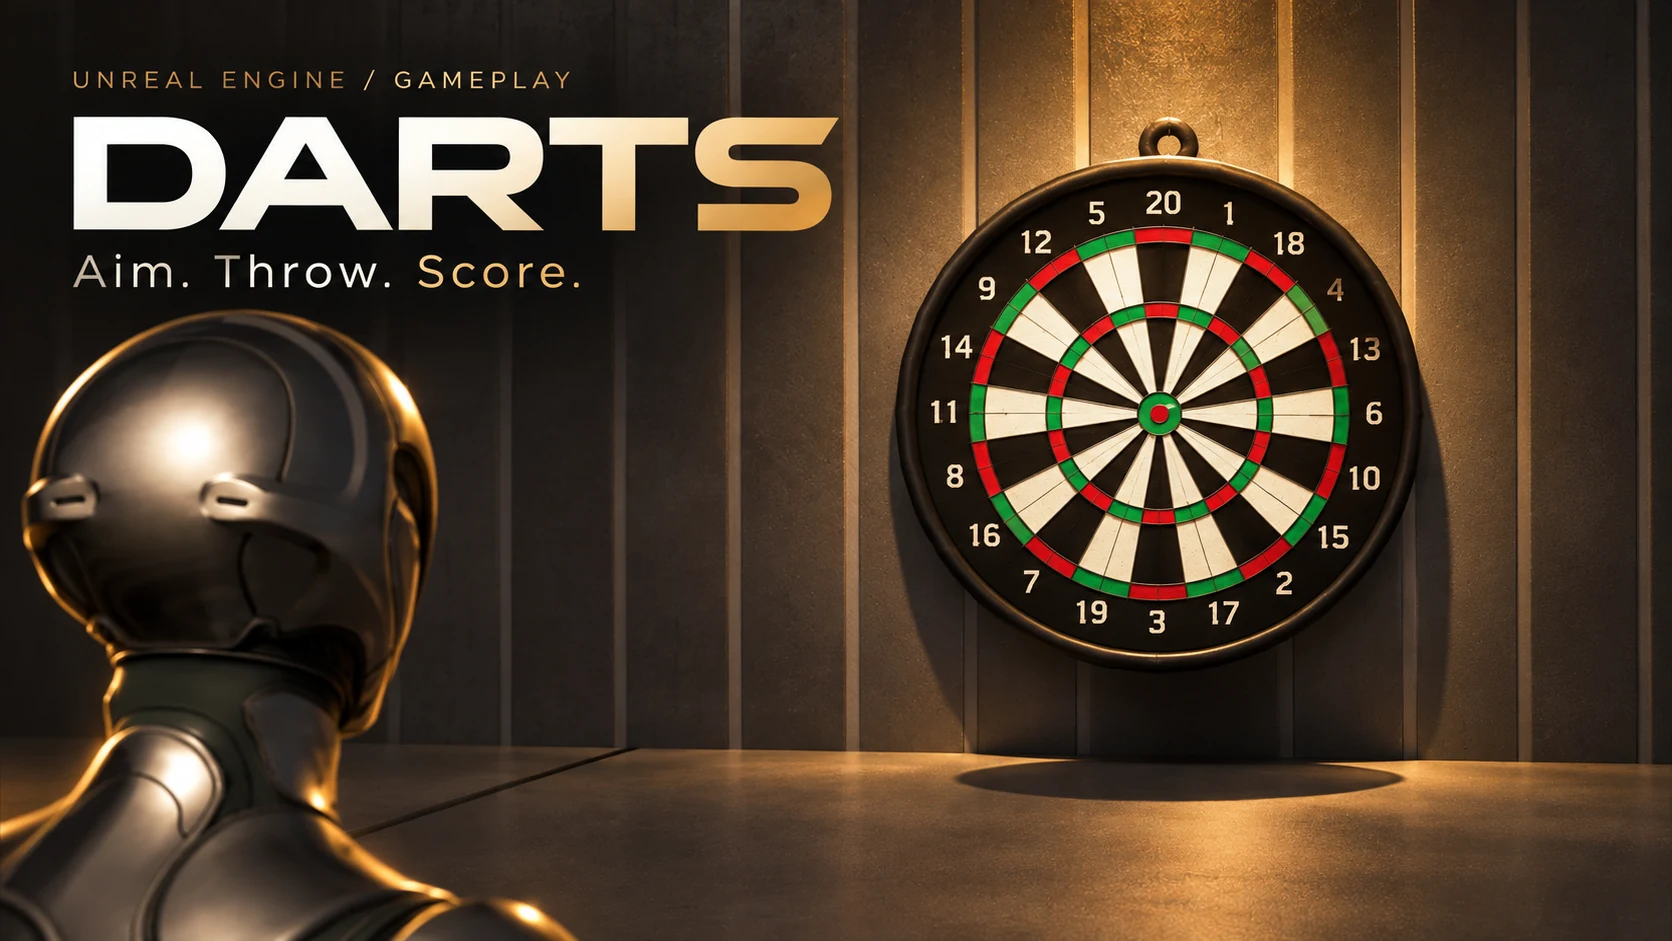
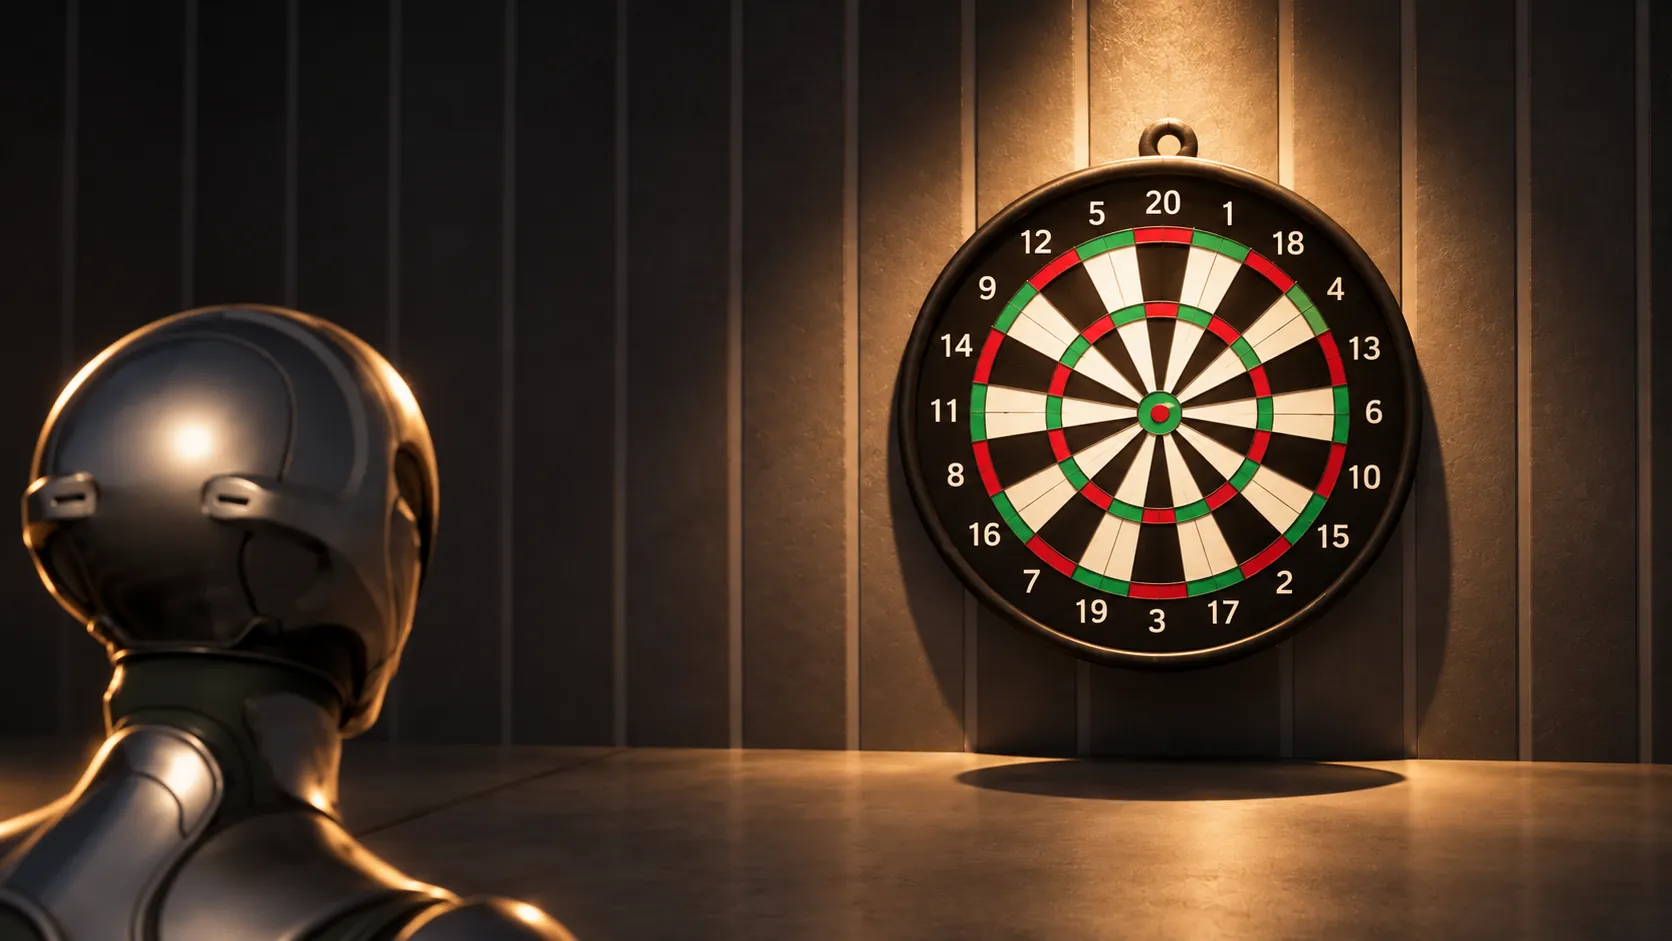
New natural cover images for Darts, Warehouse Simulation and the robot arm
Lightly polished renders of the real scenes/model, no added text or badges.
WebP at the existing sizes with versioned links; the robot arm's alt text
now describes the grey studio shot (EN/JA).

diff --git a/src/partials/sections/unreal-projects.html b/src/partials/sections/unreal-projects.html
@@ -21,8 +21,8 @@
                     <video id="ue-darts-video" width="1920" height="1080" preload="none" muted loop playsinline tabindex="-1"
                         aria-labelledby="ue-darts-title" aria-describedby="ue-darts-desc"
                         data-webm="assets/videos/unreal-engine/darts-game.webm" data-mp4="assets/videos/unreal-engine/darts-game.mp4"></video>
-                    <img class="ue-poster" src="assets/images/projects/unreal-engine/darts-game.webp"
-                        srcset="assets/images/projects/unreal-engine/darts-game-960.webp 960w, assets/images/projects/unreal-engine/darts-game.webp 1672w"
+                    <img class="ue-poster" src="assets/images/projects/unreal-engine/darts-game.webp?v=2"
+                        srcset="assets/images/projects/unreal-engine/darts-game-960.webp?v=2 960w, assets/images/projects/unreal-engine/darts-game.webp?v=2 1672w"
                         sizes="(max-width: 768px) 95vw, (max-width: 1440px) 46vw, 680px" width="1672" height="941"
                         alt="Darts game cover: a metallic character facing a dartboard in warm cinematic light" data-i18n-alt="ueDartsAlt" loading="lazy" decoding="async">
                     <a class="ue-media-link" href="assets/videos/unreal-engine/darts-game.mp4" aria-label="Darts Game — Play demo" aria-controls="ue-darts-video">
@@ -47,8 +47,8 @@
                     <video id="ue-warehouse-video" width="1920" height="1080" preload="none" muted loop playsinline tabindex="-1"
                         aria-labelledby="ue-warehouse-title" aria-describedby="ue-warehouse-desc"
                         data-webm="assets/videos/unreal-engine/warehouse-simulation.webm" data-mp4="assets/videos/unreal-engine/warehouse-simulation.mp4"></video>
-                    <img class="ue-poster" src="assets/images/projects/unreal-engine/warehouse-simulation.webp?v=2"
-                        srcset="assets/images/projects/unreal-engine/warehouse-simulation-960.webp?v=2 960w, assets/images/projects/unreal-engine/warehouse-simulation.webp?v=2 1672w"
+                    <img class="ue-poster" src="assets/images/projects/unreal-engine/warehouse-simulation.webp?v=3"
+                        srcset="assets/images/projects/unreal-engine/warehouse-simulation-960.webp?v=3 960w, assets/images/projects/unreal-engine/warehouse-simulation.webp?v=3 1672w"
                         sizes="(max-width: 768px) 95vw, (max-width: 1440px) 46vw, 680px" width="1672" height="941"
                         alt="Warehouse simulation cover: an architectural cutaway with carton racks, conveyors and robotic equipment" data-i18n-alt="ueWarehouseAlt" loading="lazy" decoding="async">
                     <a class="ue-media-link" href="assets/videos/unreal-engine/warehouse-simulation.mp4" aria-label="Warehouse Simulation — Play demo" aria-controls="ue-warehouse-video">

diff --git a/src/partials/sections/blender-work.html b/src/partials/sections/blender-work.html
@@ -11,7 +11,7 @@
         <div class="bw-grid">
             <article class="bw-card" data-model="industrial-robot-arm">
                 <button class="bw-cover" type="button" data-inspect-model="industrial-robot-arm" aria-label="Inspect model: Industrial Robot Arm" aria-haspopup="dialog">
-                    <img src="assets/images/projects/blender/industrial-robot-arm-1536.webp?v=2" srcset="assets/images/projects/blender/industrial-robot-arm-768.webp?v=2 768w, assets/images/projects/blender/industrial-robot-arm-1536.webp?v=2 1536w" sizes="(max-width: 768px) 94vw, (max-width: 1100px) 45vw, 46vw" width="1536" height="864" loading="lazy" decoding="async" alt="Industrial Robot Arm: preview poster of the white robot arm in a dark factory">
+                    <img src="assets/images/projects/blender/industrial-robot-arm-1536.webp?v=3" srcset="assets/images/projects/blender/industrial-robot-arm-768.webp?v=3 768w, assets/images/projects/blender/industrial-robot-arm-1536.webp?v=3 1536w" sizes="(max-width: 768px) 94vw, (max-width: 1100px) 45vw, 46vw" width="1536" height="864" loading="lazy" decoding="async" alt="Industrial Robot Arm: the white robot arm on a plain grey studio background">
                     <span class="bw-cover-icon" aria-hidden="true"><svg viewBox="0 0 24 24" fill="none" stroke="currentColor" stroke-width="1.5" stroke-linecap="round" stroke-linejoin="round" aria-hidden="true"><path d="m12 4 7 4v8l-7 4-7-4V8l7-4Zm0 8 7-4m-7 4L5 8m7 4v8M3 4v4H1m20 12v-4h2"/></svg></span>
                 </button>
                 <div class="bw-body">

diff --git a/blender-work.js b/blender-work.js
@@ -59,7 +59,7 @@
             const data = models[card.dataset.model];
             card.querySelector('.bw-name').textContent = data.title[lang()];
             card.querySelector('.bw-desc').textContent = data.description[lang()];
-            card.querySelector('.bw-cover img').alt = data.title[lang()] + (lang() === 'ja' ? '：暗い工場に立つ白いロボットアームのプレビュー画像' : ': preview poster of the white robot arm in a dark factory');
+            card.querySelector('.bw-cover img').alt = data.title[lang()] + (lang() === 'ja' ? '：グレーのスタジオ背景に置かれた白いロボットアーム' : ': the white robot arm on a plain grey studio background');
             card.querySelectorAll('[data-inspect-model]').forEach(button => button.setAttribute('aria-label', text('inspect') + ': ' + data.title[lang()]));
             card.querySelector('[data-bw-triangles]').textContent = number(data.stats.triangles) + (lang() === 'ja' ? ' 三角形' : ' triangles');
             const sizeEl = card.querySelector('[data-bw-size]');

diff --git a/assets/images/projects/blender/ARTWORK.md b/assets/images/projects/blender/ARTWORK.md
@@ -2,7 +2,7 @@
 
 One preview was created with the built-in image-generation tool, each using a rendered view of its actual GLB model as a geometry and appearance reference. They are photographic interpretations; the interactive inspector always shows the original file.
 
-The current preview (November 2026) is a 1672 × 941 poster supplied by Manoj: the robot arm in a dark factory with the title, tagline and Unreal Engine / Blender marks. It is exported as `-1536.webp` and `-768.webp` (WebP, quality 80–82); there is no 4K export, because upscaling would add bytes but no detail. `image-sizes.json` records dimensions and byte sizes. The prompt below produced the earlier ivory-studio preview.
+The current preview (November 2026) is a 1672 × 941 studio image supplied by Manoj: the robot arm on a plain grey background, made by lightly polishing a render of the model (no added text or badges). It is exported as `-1536.webp` and `-768.webp` (WebP, quality 80–82); there is no 4K export, because upscaling would add bytes but no detail. `image-sizes.json` records dimensions and byte sizes. The prompt below produced the earlier ivory-studio preview.
 
 ## Prompts
 
